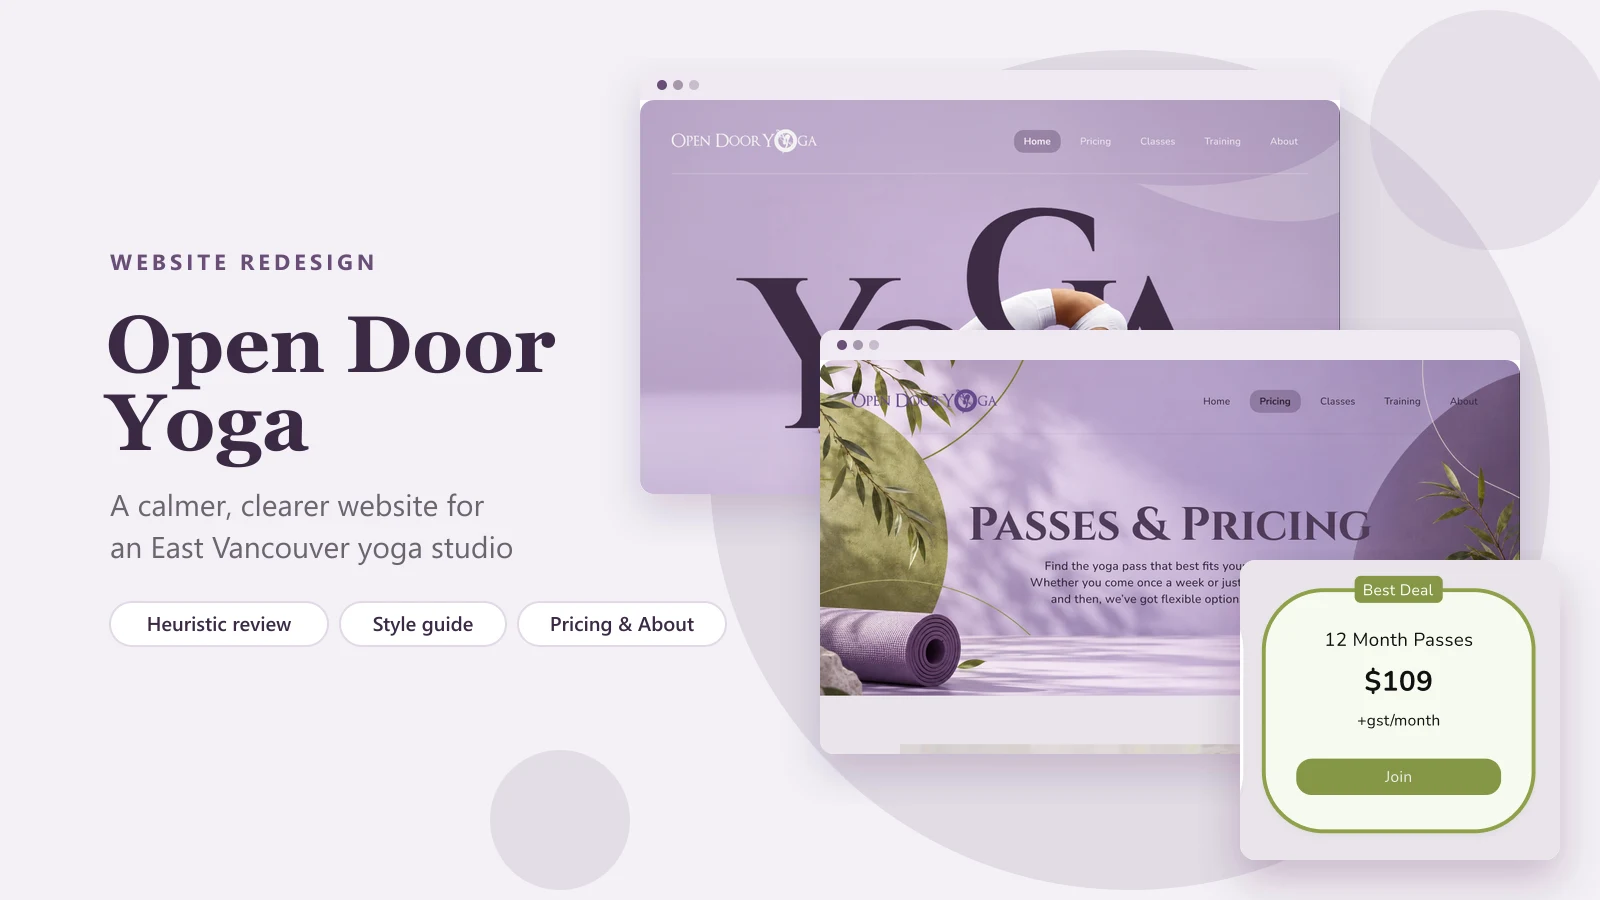
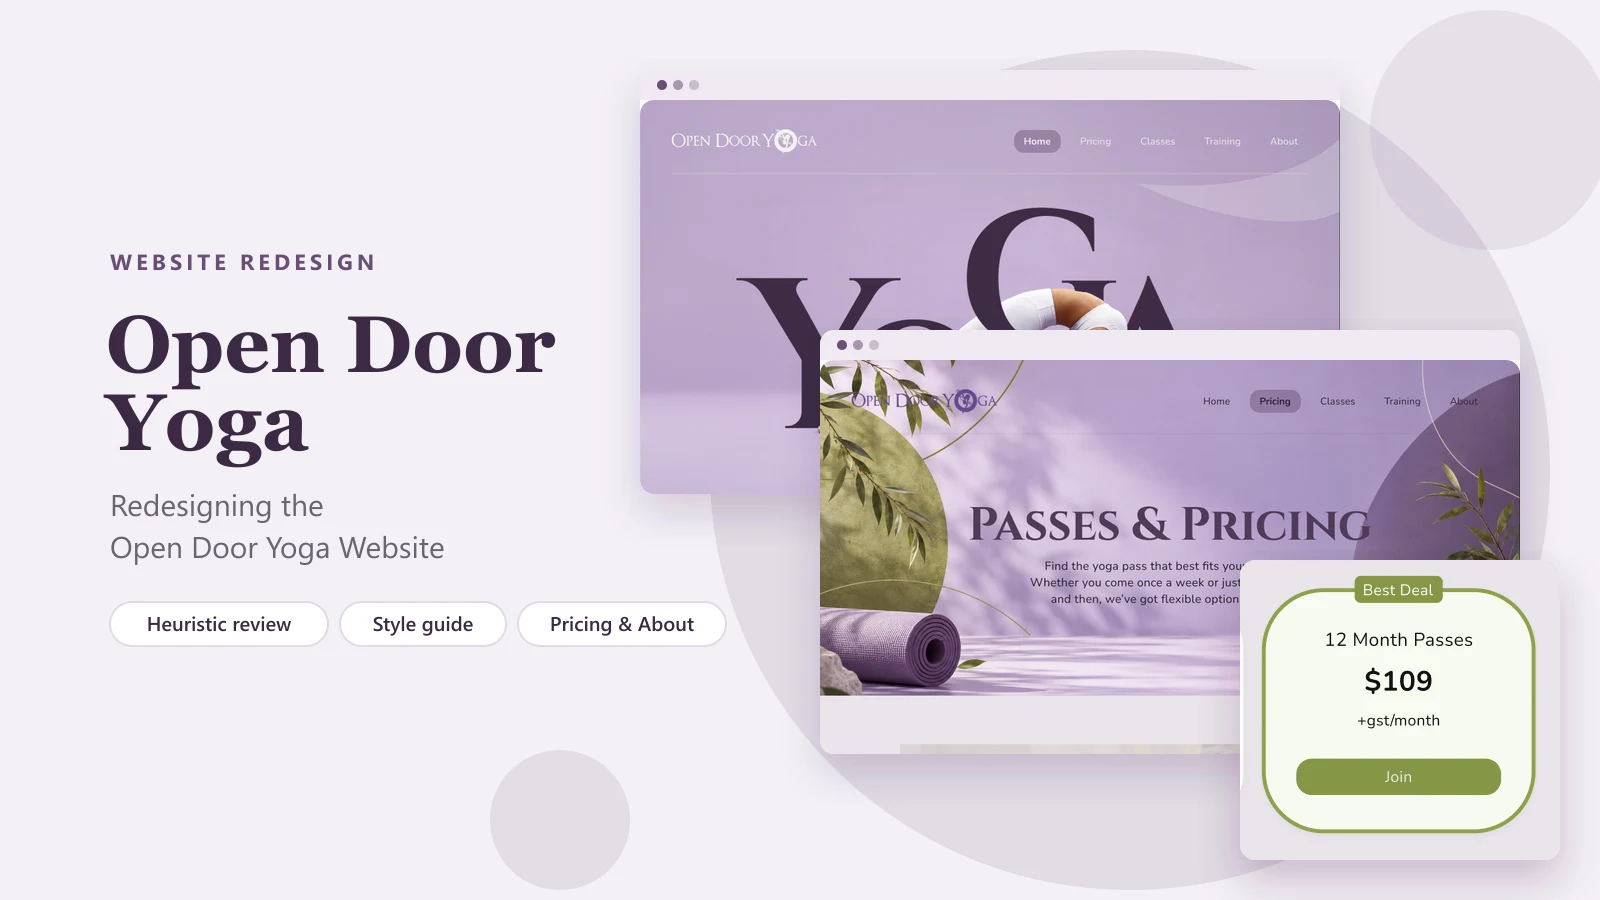
Yoga: annotated heuristic screens, all three wireframes, new tagline
Mark the problem areas on the original site with dashed boxes coloured by
heuristic, add a colour key and numbered notes, and show the Home, Pricing
and Teacher Training wireframes whole, side by side.

Changed region(s): [[0.0625, 0.5289, 0.3125, 0.6222]]

diff --git a/src/data/projects.ts b/src/data/projects.ts
@@ -26,6 +26,9 @@ export type Figure = {
 
 export type Swatch = { name: string; hex: string; usage?: string }
 
+/** Heuristics marked on the annotated screens (colours match scripts/build-yoga-annotations.mjs). */
+export type Heuristic = 'visibility' | 'recognition' | 'consistency'
+
 export type Block =
   | { kind: 'text'; body: string[] }
   | { kind: 'list'; intro?: string; items: string[] }
@@ -51,7 +54,9 @@ export type Block =
   /** Click through prototype: real screens shown one step at a time in a laptop. */
   | { kind: 'walkthrough'; steps: { title: string; note: string; figure: Figure }[] }
   /** Website pages shown as small browser windows (top of each page; click to see all of it). */
-  | { kind: 'pages'; caption?: string; items: { label: string; figure: Figure }[] }
+  | { kind: 'pages'; caption?: string; full?: boolean; items: { label: string; figure: Figure }[] }
+  /** Screens of a page with the problem areas boxed and numbered, a colour legend, and a note per number. */
+  | { kind: 'annotated'; legend: { type: Heuristic; label: string }[]; panels: { label: string; figure: Figure; notes: { n: number; type: Heuristic; text: string }[] }[] }
   /** UI kit: real components as labelled tiles in a grid (wide tiles span the full row). */
   | { kind: 'kit'; items: { label: string; note: string; figure: Figure }[] }
   /** Embedded live Figma file, with an optional link to the interactive prototype. */
@@ -129,13 +134,13 @@ const wire = (name: string, alt: string, caption: string, height: number): Figur
   height,
 })
 
-/** A full page of the original Open Door Yoga site, captured from the live site (see scripts/prepare-yoga-audit.mjs). */
-const audit = (name: string, alt: string, height: number): Figure => ({
-  src: `/images/yoga-audit/${name}.webp`,
+/** Part of an original Open Door Yoga page with its problem areas marked (see scripts/build-yoga-annotations.mjs). */
+const issues = (name: string, alt: string, height: number): Figure => ({
+  src: `/images/projects/yoga-issues-${name}.webp`,
   alt,
-  width: 1600,
+  width: 1200,
   height,
-  tall: true,
+  zoom: true,
 })
 
 /** A grayscale low fi Cookpad wireframe (SVG, 960 px wide) drawn by scripts/build-cookpad-wireframes.mjs. */
@@ -1006,14 +1011,14 @@ export const projects: Project[] = [
     title: 'Open Door Yoga',
     disciplines: ['ux-ui', 'visual'],
     featured: true,
-    tagline: 'A calmer, clearer website for an East Vancouver yoga studio',
+    tagline: 'Redesigning the Open Door Yoga Website',
     summary:
       'A team redesign of the Open Door Yoga website: class styles, teacher training and pass pricing.',
     category: 'Website · Redesign',
     platform: 'Website',
     role: 'UX/UI Design',
     timeline: '2026.08 to 2026.09',
-    team: 'Group project, 3 designers',
+    team: '3 designers',
     tools: ['Figma', 'html.to.design'],
     // cover: built by scripts/build-covers.mjs from the real redesigned pages
     thumbnail: img('yoga-cover', 'Open Door Yoga redesign cover: the new Home and Passes & Pricing pages in browser windows, and the 12 Month Pass card.', undefined, 1600, 900),
@@ -1056,7 +1061,7 @@ export const projects: Project[] = [
           {
             kind: 'text',
             body: [
-              'We imported the live opendooryoga.bc.ca pages into Figma (with html.to.design) and reviewed them with Nielsen’s 10 usability heuristics, walking through three key tasks a first time student would try.',
+              'We imported the live opendooryoga.bc.ca pages into Figma (with html.to.design) and reviewed them with Nielsen’s 10 usability heuristics, walking through three key tasks a first time student would try. The screens below mark the problem areas we found, coloured by the heuristic each one breaks.',
             ],
           },
           {
@@ -1086,18 +1091,45 @@ export const projects: Project[] = [
             ],
           },
           {
-            // the seven pages we audited, captured at full length from opendooryoga.bc.ca
-            // (scripts/prepare-yoga-audit.mjs); this replaces the dark audit board image
-            kind: 'pages',
-            caption: 'The seven existing pages we reviewed across the three key tasks (captured from the studio’s live site). Click a page to see all of it.',
-            items: [
-              { label: 'Home', figure: audit('home', 'Original Open Door Yoga home page: hero photo, class and training promos, pass offers, teachers and workshops.', 8938) },
-              { label: 'About', figure: audit('about', 'Original About page: photo header, a long welcome text, our story and our vision.', 4968) },
-              { label: 'Schedule', figure: audit('schedule', 'Original Schedule page: notes about booking and an embedded class schedule.', 2431) },
-              { label: 'Teacher Training', figure: audit('training', 'Original Teacher Training page: long program description, curriculum, schedule, tuition, faculty and FAQ.', 8444) },
-              { label: 'Passes', figure: audit('passes', 'Original Passes & Pricing page: first time student offer and pass options.', 3521) },
-              { label: 'Workshops', figure: audit('workshops', 'Original Workshops page: a list of upcoming workshops with dates and descriptions.', 1833) },
-              { label: 'Contact', figure: audit('contact', 'Original Contact page: address, entry instructions and a contact form.', 3991) },
+            // problem areas on the live opendooryoga.bc.ca pages, boxed by the heuristic they break
+            // (scripts/build-yoga-annotations.mjs); findings from the team's evaluation slides in Figma
+            kind: 'annotated',
+            legend: [
+              { type: 'visibility', label: 'Visibility of system status' },
+              { type: 'recognition', label: 'Recognition rather than recall' },
+              { type: 'consistency', label: 'Consistency and standards' },
+            ],
+            panels: [
+              {
+                label: 'Home, top of the page',
+                figure: issues('home-top', 'Original home page header: the menu over the hero photo, with Current Schedule highlighted in green and boxed.', 480),
+                notes: [{ n: 1, type: 'visibility', text: 'The menu doesn’t show where you are. On the Home page, the highlighted item is Current Schedule.' }],
+              },
+              {
+                label: 'Home, passes',
+                figure: issues('home-passes', 'Original pass offers on the home page: the First Time Student Special card and the Other passes card boxed in red, and four different looking buttons boxed in orange.', 1260),
+                notes: [
+                  { n: 2, type: 'recognition', text: 'Two intro offers, 5 weeks for $109 and 6 weeks for $109, share one card, so a first time student has to read closely to tell them apart.' },
+                  { n: 3, type: 'recognition', text: 'All the other passes are hidden behind Learn More, so their prices can’t be compared at a glance.' },
+                  { n: 4, type: 'consistency', text: 'Buttons on the same screen use different shapes, colours and wording: Buy 5 Week Pass, Learn More, Click here to subscribe.' },
+                ],
+              },
+              {
+                label: 'Schedule',
+                figure: issues('schedule', 'Original Schedule page: the block of booking notes and the small email screenshots, both boxed in red.', 863),
+                notes: [
+                  { n: 5, type: 'recognition', text: 'Prices, booking steps and cancellation rules sit in one long centred block of text.' },
+                  { n: 6, type: 'recognition', text: 'Help with online booking is given as small screenshots of emails, which are hard to read.' },
+                ],
+              },
+              {
+                label: 'Teacher Training',
+                figure: issues('training', 'Original Teacher Training page: the collapsed curriculum sections boxed in violet, the program schedule, and Prices & Payment boxed in red further down.', 1268),
+                notes: [
+                  { n: 7, type: 'visibility', text: 'Collapsed curriculum sections show up arrows, which suggest they are already open.' },
+                  { n: 8, type: 'recognition', text: 'The tuition only appears about halfway down a long page.' },
+                ],
+              },
             ],
           },
         ],
@@ -1190,9 +1222,16 @@ export const projects: Project[] = [
         title: 'Wireframes',
         blocks: [
           {
-            kind: 'figure',
-            // Sujin's Pricing page wireframe: "Price" frame (111:179) in the Open Door Yoga file (scripts/prepare-yoga-wireframe.mjs)
-            figure: { ...img('yoga-wireframe-pricing', 'Pricing page wireframe: a "Yoga Passes & Pricing" hero, a First time student offer, two rows of pass cards with Join buttons, a Give a Gift of Health section with a gift photo, and the footer.', 'Pricing page wireframe, which I designed.', 1122, 2400), tall: true, zoom: true },
+            // Wireframe page frames in the Open Door Yoga file: Home Page (119:479), Price (111:179,
+            // Sujin's) and Training 1 (238:639), prepared by scripts/prepare-yoga-wireframe.mjs
+            kind: 'pages',
+            full: true,
+            caption: 'Our wireframes for the Home, Pricing and Teacher Training pages. I designed the Pricing page. Click a page to see it larger.',
+            items: [
+              { label: 'Home', figure: { ...img('yoga-wireframe-home', 'Home page wireframe: a YOGA hero with a Schedule your Yoga Class button, four class cards (Hatha, Restorative, Vinyasa, Yin) with Pricing and Schedule buttons, About Us, Our Team with three teachers, and the footer.', undefined, 1122, 2285), tall: true } },
+              { label: 'Pricing (mine)', figure: { ...img('yoga-wireframe-pricing', 'Pricing page wireframe: a "Yoga Passes & Pricing" hero, a First time student offer, two rows of pass cards with Join buttons, a Give a Gift of Health section with a gift photo, and the footer.', undefined, 1122, 2399), tall: true } },
+              { label: 'Teacher Training', figure: { ...img('yoga-wireframe-training', 'Teacher Training page wireframe: a 200 hour teacher training hero, Apply Now and Have Questions buttons, About, What You Will Gain, The Complete Learning Process with the curriculum hours as a timeline, accreditation badges, and the footer.', undefined, 1122, 3476), tall: true } },
+            ],
           },
         ],
       },

diff --git a/src/styles/case-study.css b/src/styles/case-study.css
@@ -414,6 +414,112 @@
   color: var(--c-ink-soft);
   text-align: center;
 }
+/* full: every page shown whole, side by side (e.g. wireframes); click to see one larger */
+.cs-pages--full .cs-pages__list {
+  grid-template-columns: repeat(3, minmax(0, 1fr));
+  align-items: start;
+}
+.cs-pages--full .cs-pages__window .zoom img {
+  aspect-ratio: auto;
+}
+
+/* annotated: real screens with problem areas boxed, a colour key and numbered notes */
+.cs-annotated {
+  --h-visibility: #7c4dbd;
+  --h-recognition: #d64545;
+  --h-consistency: #c67a0c; /* a touch darker than the box colour so the text stays readable */
+  display: grid;
+  gap: clamp(1.5rem, 4vw, 2.5rem);
+  margin-top: var(--s-2);
+}
+.cs-annotated__legend {
+  display: flex;
+  flex-wrap: wrap;
+  gap: 0.5rem 1.25rem;
+  margin: 0;
+  padding: 0;
+  list-style: none;
+  font-size: var(--fs-sm);
+  font-weight: 700;
+}
+.cs-annotated__key {
+  display: inline-flex;
+  align-items: center;
+  gap: 0.5rem;
+}
+/* a small dashed box, like the ones on the screens */
+.cs-annotated__key::before {
+  content: '';
+  width: 1.1rem;
+  height: 0.8rem;
+  border: 2px dashed var(--c);
+  border-radius: 3px;
+  background: color-mix(in srgb, var(--c) 10%, transparent);
+}
+.cs-annotated__key--visibility,
+.cs-annotated__note--visibility { --c: var(--h-visibility); }
+.cs-annotated__key--recognition,
+.cs-annotated__note--recognition { --c: var(--h-recognition); }
+.cs-annotated__key--consistency,
+.cs-annotated__note--consistency { --c: var(--h-consistency); }
+.cs-annotated__panel {
+  display: grid;
+  gap: var(--s-4);
+  margin: 0;
+  padding: clamp(0.75rem, 2.5vw, 1.25rem);
+  border-radius: var(--r-lg);
+  background: var(--p-surface);
+}
+@media (min-width: 900px) {
+  .cs-annotated__panel {
+    grid-template-columns: minmax(0, 3fr) minmax(0, 2fr);
+    align-items: center;
+    gap: clamp(1.25rem, 3vw, 2.25rem);
+  }
+}
+.cs-annotated__shot {
+  overflow: hidden;
+  border-radius: var(--r-sm);
+}
+.cs-annotated__shot img {
+  display: block;
+  width: 100%;
+  height: auto;
+}
+.cs-annotated__label {
+  margin: 0 0 var(--s-3);
+  font-size: var(--fs-xs);
+  font-weight: 700;
+  letter-spacing: 0.08em;
+  text-transform: uppercase;
+  color: var(--c-ink-soft);
+}
+.cs-annotated__notes ol {
+  display: grid;
+  gap: var(--s-3);
+  margin: 0;
+  padding: 0;
+  list-style: none;
+}
+.cs-annotated__note {
+  display: flex;
+  align-items: flex-start;
+  gap: 0.75rem;
+  line-height: 1.55;
+}
+.cs-annotated__num {
+  display: grid;
+  flex: none;
+  place-items: center;
+  width: 1.75rem;
+  height: 1.75rem;
+  border-radius: 50%;
+  background: var(--c);
+  color: #fff;
+  font-size: var(--fs-sm);
+  font-weight: 700;
+  font-variant-numeric: tabular-nums;
+}
 
 /* stats: a row of key numbers */
 .cs-stats {

diff --git a/src/components/CaseStudySection.tsx b/src/components/CaseStudySection.tsx
@@ -181,9 +181,41 @@ function BlockView({ block }: { block: Block }) {
           ))}
         </ul>
       )
+    case 'annotated':
+      return (
+        <div className="cs-annotated">
+          <ul className="cs-annotated__legend" aria-label="Colour key">
+            {block.legend.map((l) => (
+              <li key={l.type} className={`cs-annotated__key cs-annotated__key--${l.type}`}>
+                {l.label}
+              </li>
+            ))}
+          </ul>
+          {block.panels.map((p) => (
+            <figure key={p.label} className="cs-annotated__panel">
+              <div className="cs-annotated__shot">
+                <ZoomImage figure={p.figure} />
+              </div>
+              <figcaption className="cs-annotated__notes">
+                <p className="cs-annotated__label">{p.label}</p>
+                <ol>
+                  {p.notes.map((n) => (
+                    <li key={n.n} className={`cs-annotated__note cs-annotated__note--${n.type}`}>
+                      <span className="cs-annotated__num" aria-hidden="true">
+                        {n.n}
+                      </span>
+                      <span>{n.text}</span>
+                    </li>
+                  ))}
+                </ol>
+              </figcaption>
+            </figure>
+          ))}
+        </div>
+      )
     case 'pages':
       return (
-        <figure className="cs-pages">
+        <figure className={`cs-pages ${block.full ? 'cs-pages--full' : ''}`}>
           <ol className="cs-pages__list">
             {block.items.map((p, i) => (
               <li key={p.label} className="cs-pages__item">
